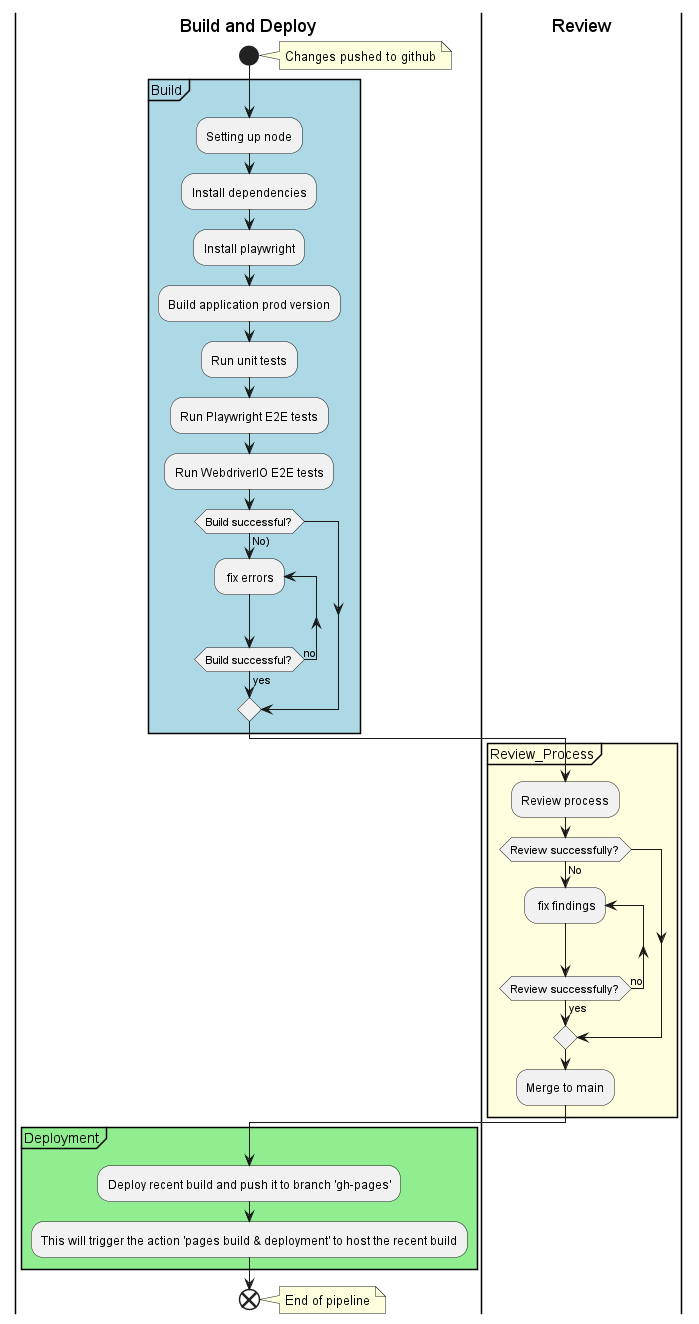
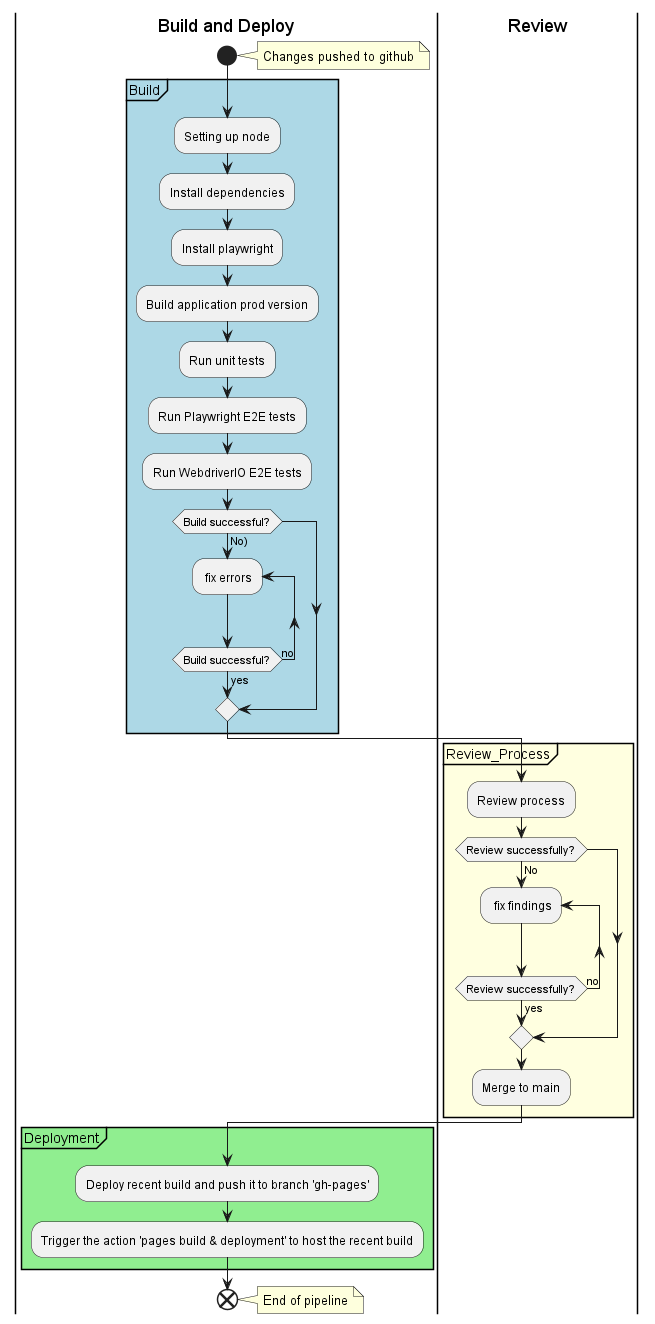
Implement documentation of ci/cd pipeline * fix review findings

diff --git a/README.md b/README.md
@@ -11,8 +11,6 @@ The newest build of the shop is deployed [here](https://zeiss.github.io/angular-
 
 To get a better understanding of the style guide example, it is recommended to look into the style guide which is hosted under the repositories [wiki page](https://github.com/ZEISS/angular-styleguide/wiki).
 
-Furthermore, you can find more information about the build and deployment process [here](documentation/generated-documents/build-pipeline-documentation.png).
-
 Almost the entire app is implemented by using the [Standalone Components](https://angular.io/guide/standalone-components) approach. To cover also the classical module-based approach and to showcase the integration of both concepts, the package `catalog` is implemented module-based completely.
 
 ## Development server
@@ -25,6 +23,8 @@ The app will automatically reload if you change any of the source files.
 Run `npm run build` to build the project.
 The build artifacts will be stored in the `dist/` directory.
 Use the `--prod` flag for a production build.
+
+Furthermore, you can find more information about the build and deployment process [here](BUILD_PIPELINE.md).
 
 ## Running unit tests
 

diff --git a/BUILD_PIPELINE.md b/BUILD_PIPELINE.md
@@ -1,0 +1,1 @@
+![`Build Pipeline`](`documentation/generated-documents/build-pipeline-documentation.png`)
